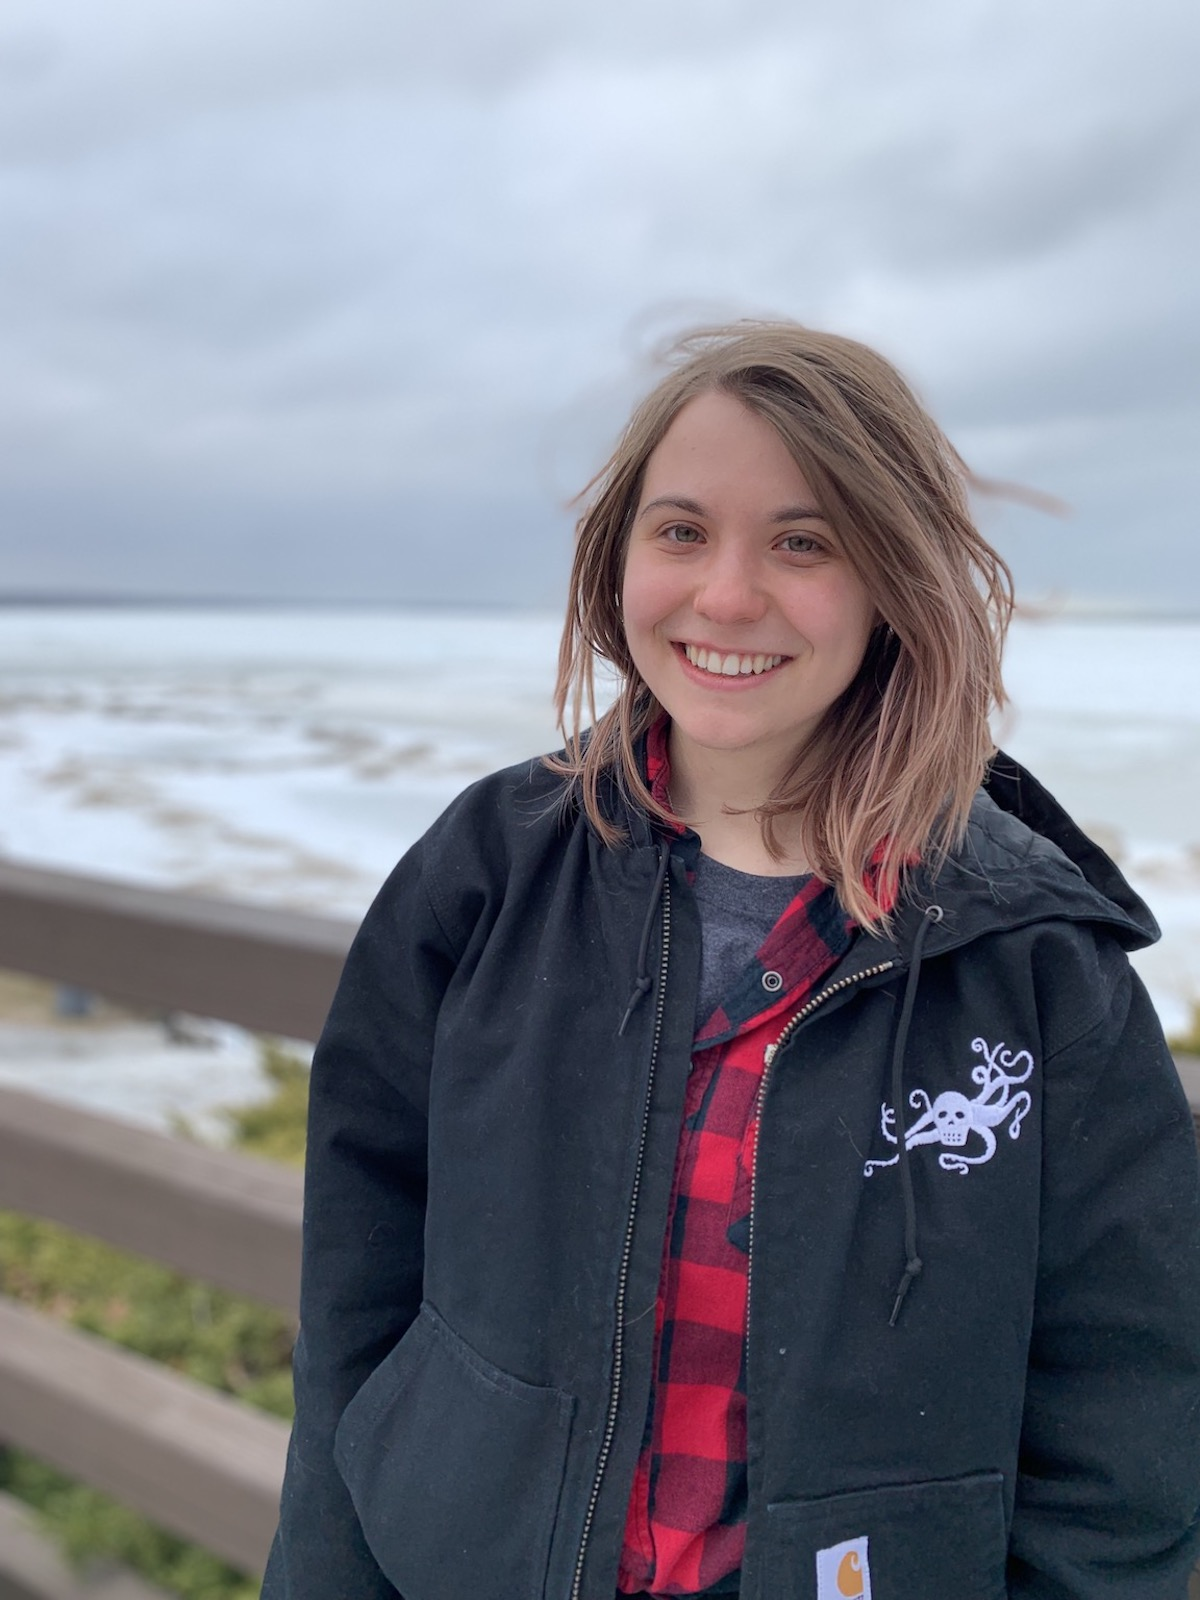
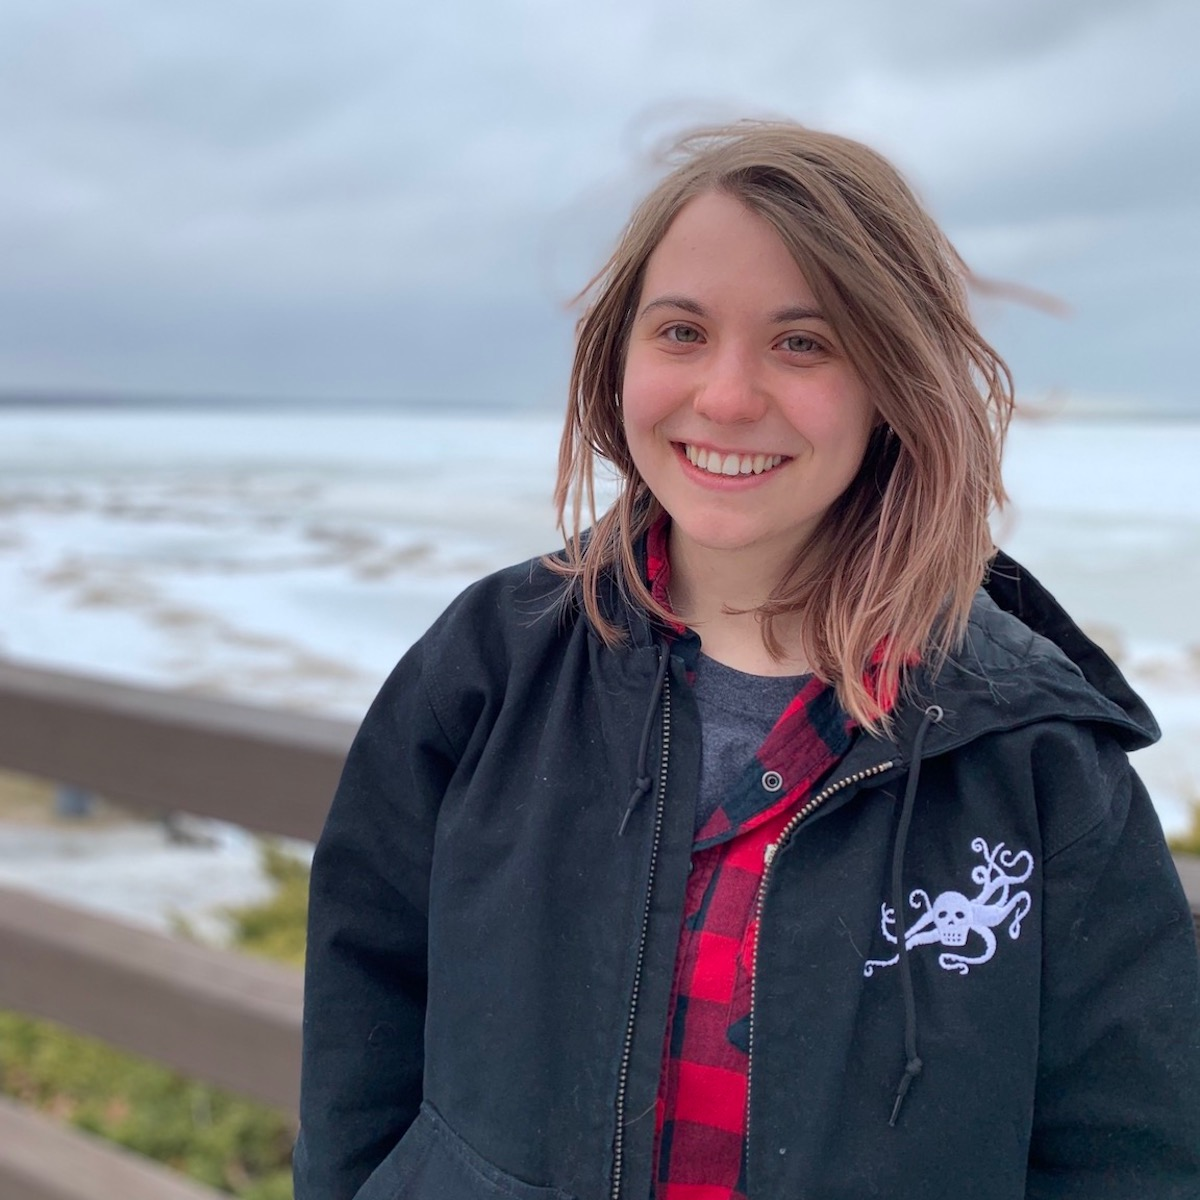
Add description to about, set max width for app.

diff --git a/pages/about.tsx b/pages/about.tsx
@@ -5,44 +5,62 @@ import Image from "next/image";
 import profilePic from "../public/about.jpg";
 
 const AboutContainer = styled("div")`
-  grid-template-columns: repeat(2, 50%);
+  margin: auto;
+  grid-template-rows: minmax(0, 60px) auto auto;
   display: grid;
   justify-content: center;
-  align-items: center;
   padding: 32px 10%;
-  grid-template-areas: "a b";
-  @media (max-width: 720px) {
-    gap: 32px;
-    grid-template-columns: repeat(1, 100%);
+  grid-template-areas:
+    "c b"
+    "a b";
+  gap: 32px;
+  @media (max-width: 867px) {
+    grid-template-rows: repeat(3, auto);
     grid-template-areas:
       "b"
+      "c"
       "a";
   }
+  overflow: nowrap;
 `;
 
 const Heading = styled(Typography)`
-  text-align: center;
-  margin-bottom: 32px;
+  grid-area: c;
 `;
 
 const Picture = styled("div")`
   grid-area: b;
   margin: auto;
+  width: 100%;
+  height: 100%;
+  min-width: 300px;
+  max-width: 500px;
+  align-self: begin;
 `;
 
 const Description = styled(Typography)`
   width: 100%;
   grid-area: a;
-  text-align: center;
+  @media (max-width: 867px) {
+    font-size: 1.5rem;
+  }
+`;
+
+const aboutDescription = `
+  Hi, I'm Ally!  To me there is nothing more amazing than building something, having it work, and able to make music it out of it.
+  When starting college I didn't know my direction, but as time passed I learned how to combine
+  my passion for science with my love for music in building electronic instruments. I've tailored my academic and professional
+  career to do just that, graduating from Wheaton College (MA) in 2019 with a BA in Music and a minor in Physics, and I am
+  currently a PCB Production Specialist at Earthquaker Devices.
 `;
 const About: NextPage = () => (
   <>
-    <Heading variant="h3">About Me</Heading>
     <AboutContainer>
+      <Heading variant="h3">About Me</Heading>
       <Picture>
-        <Image src={profilePic} />
+        <Image src={profilePic} alt="About Picture" objectFit="cover" />
       </Picture>
-      <Description>...</Description>
+      <Description>{aboutDescription}</Description>
     </AboutContainer>
   </>
 );

diff --git a/components/layout.tsx b/components/layout.tsx
@@ -6,6 +6,10 @@ import Link from "next/link";
 import { faInstagram, faLinkedin } from "@fortawesome/free-brands-svg-icons";
 import { FontAwesomeIcon } from "@fortawesome/react-fontawesome";
 
+const TopLevelWrapper = styled("div")`
+  max-width: 1440px;
+  margin: auto;
+`;
 const Main = styled("div")`
   margin: 24px;
 `;
@@ -92,7 +96,9 @@ const Layout: React.FunctionComponent = ({ children }) => {
           </IconFlex>
         </NavBar>
       </AppBar>
-      <Main>{children}</Main>
+      <TopLevelWrapper>
+        <Main>{children}</Main>
+      </TopLevelWrapper>
     </>
   );
 };
